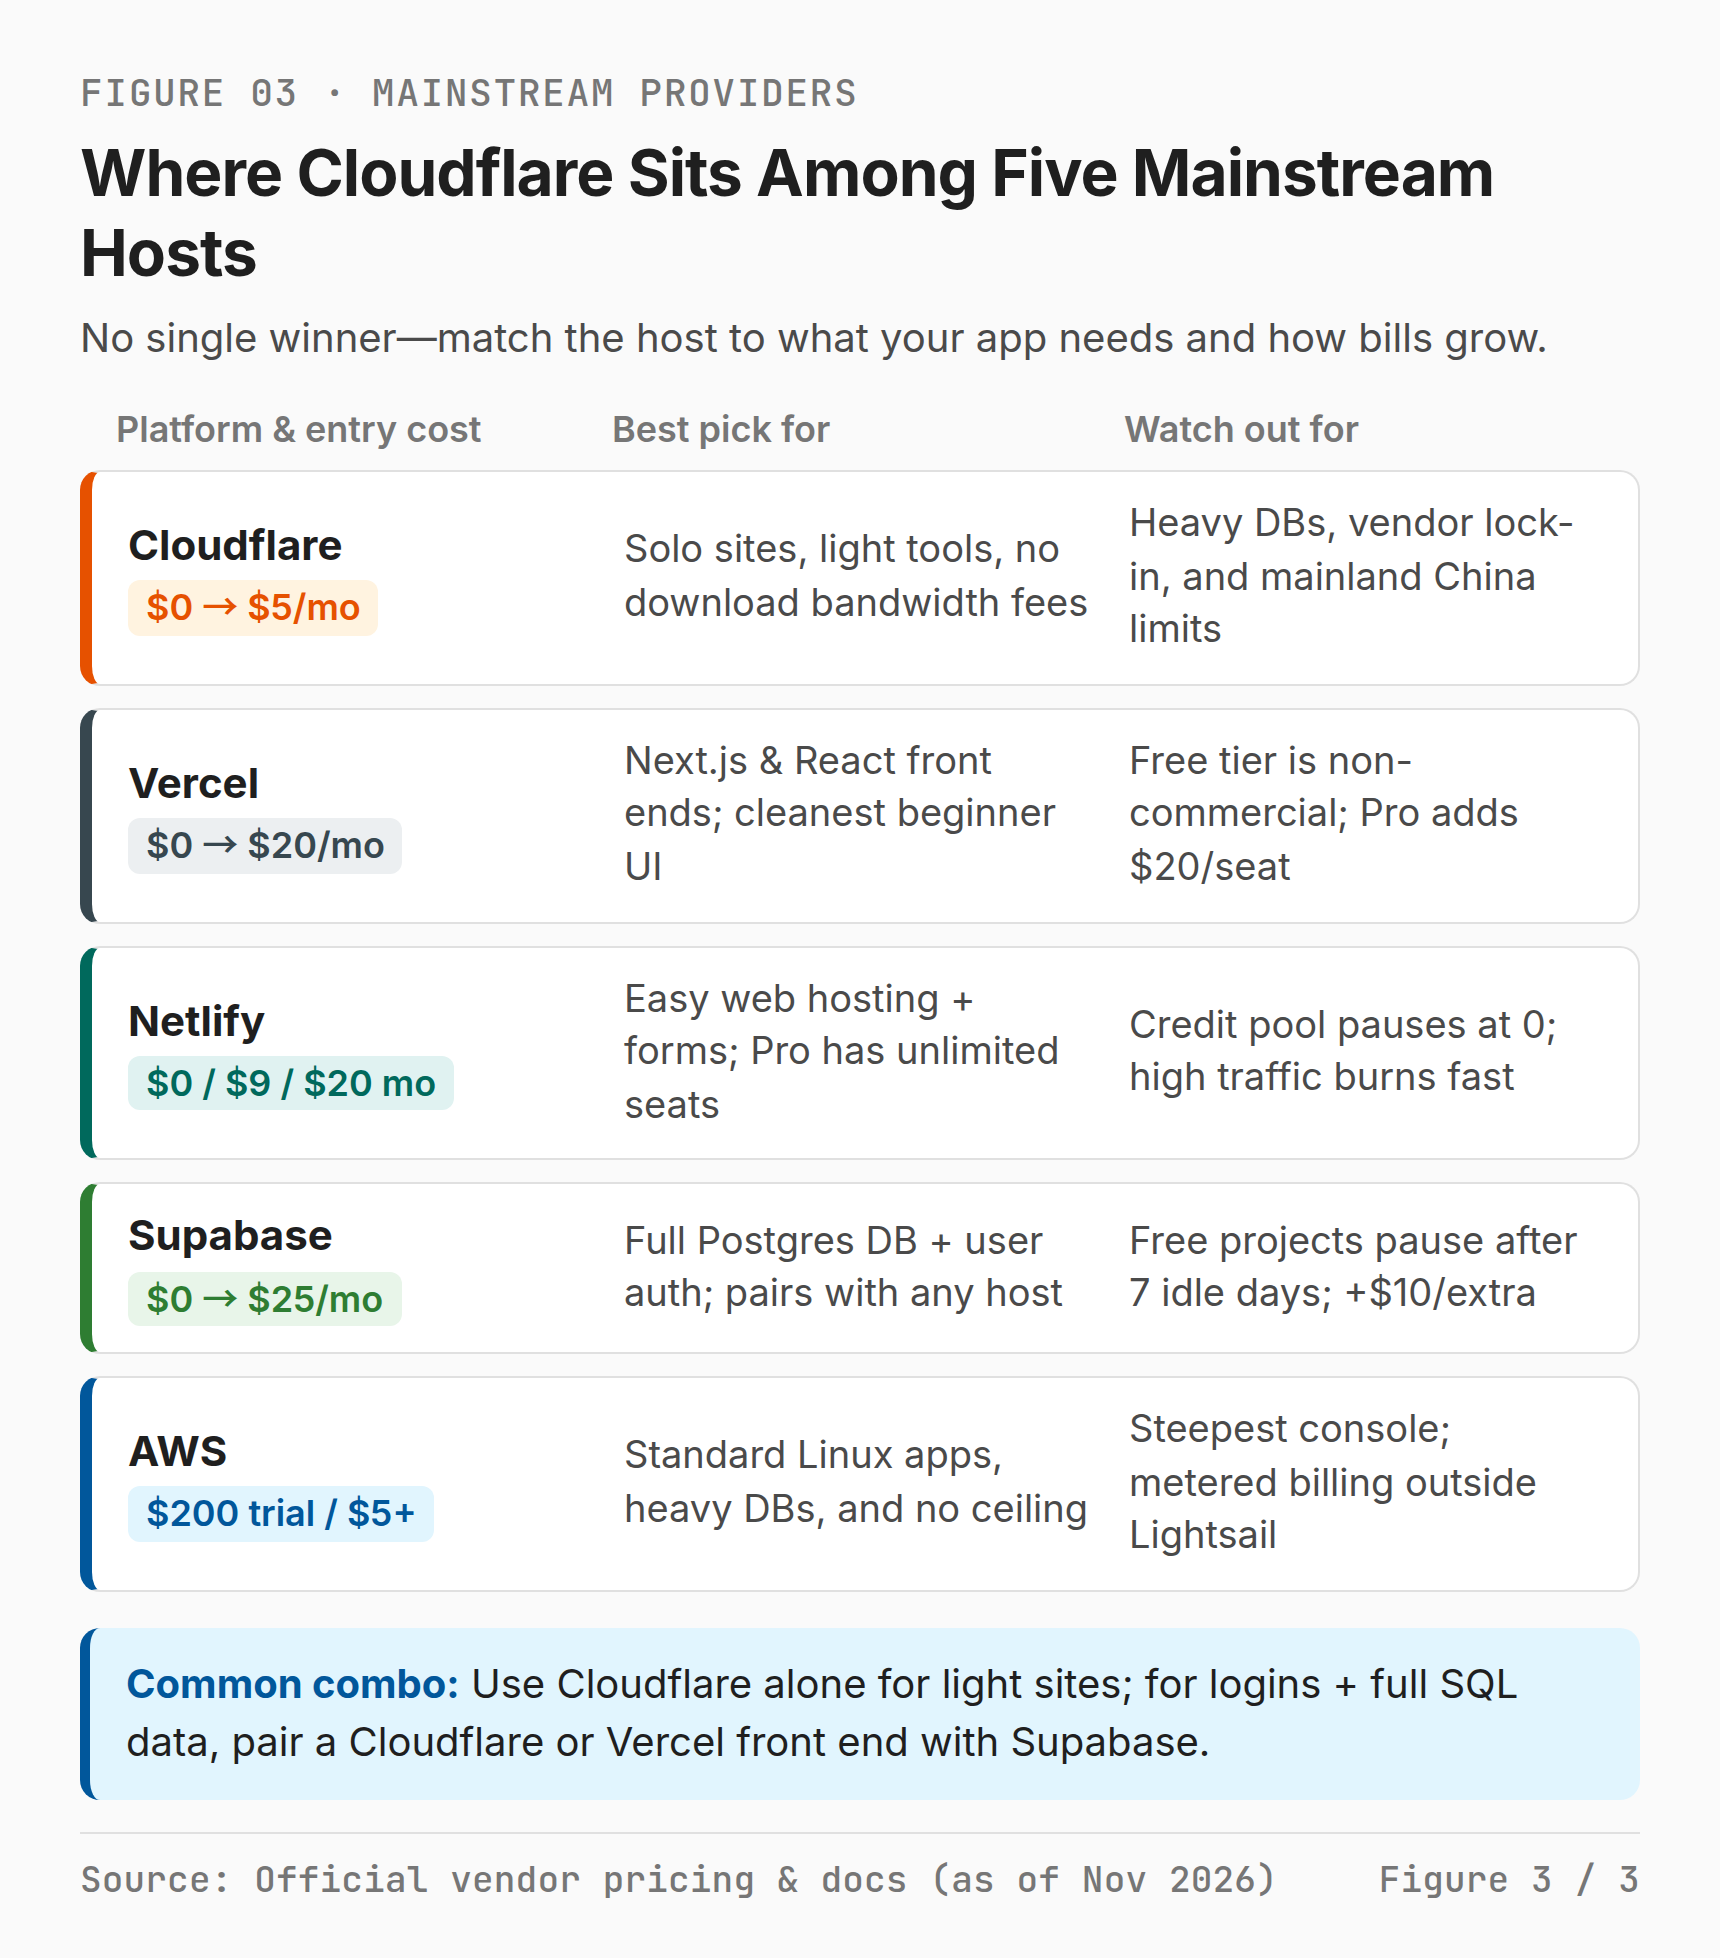
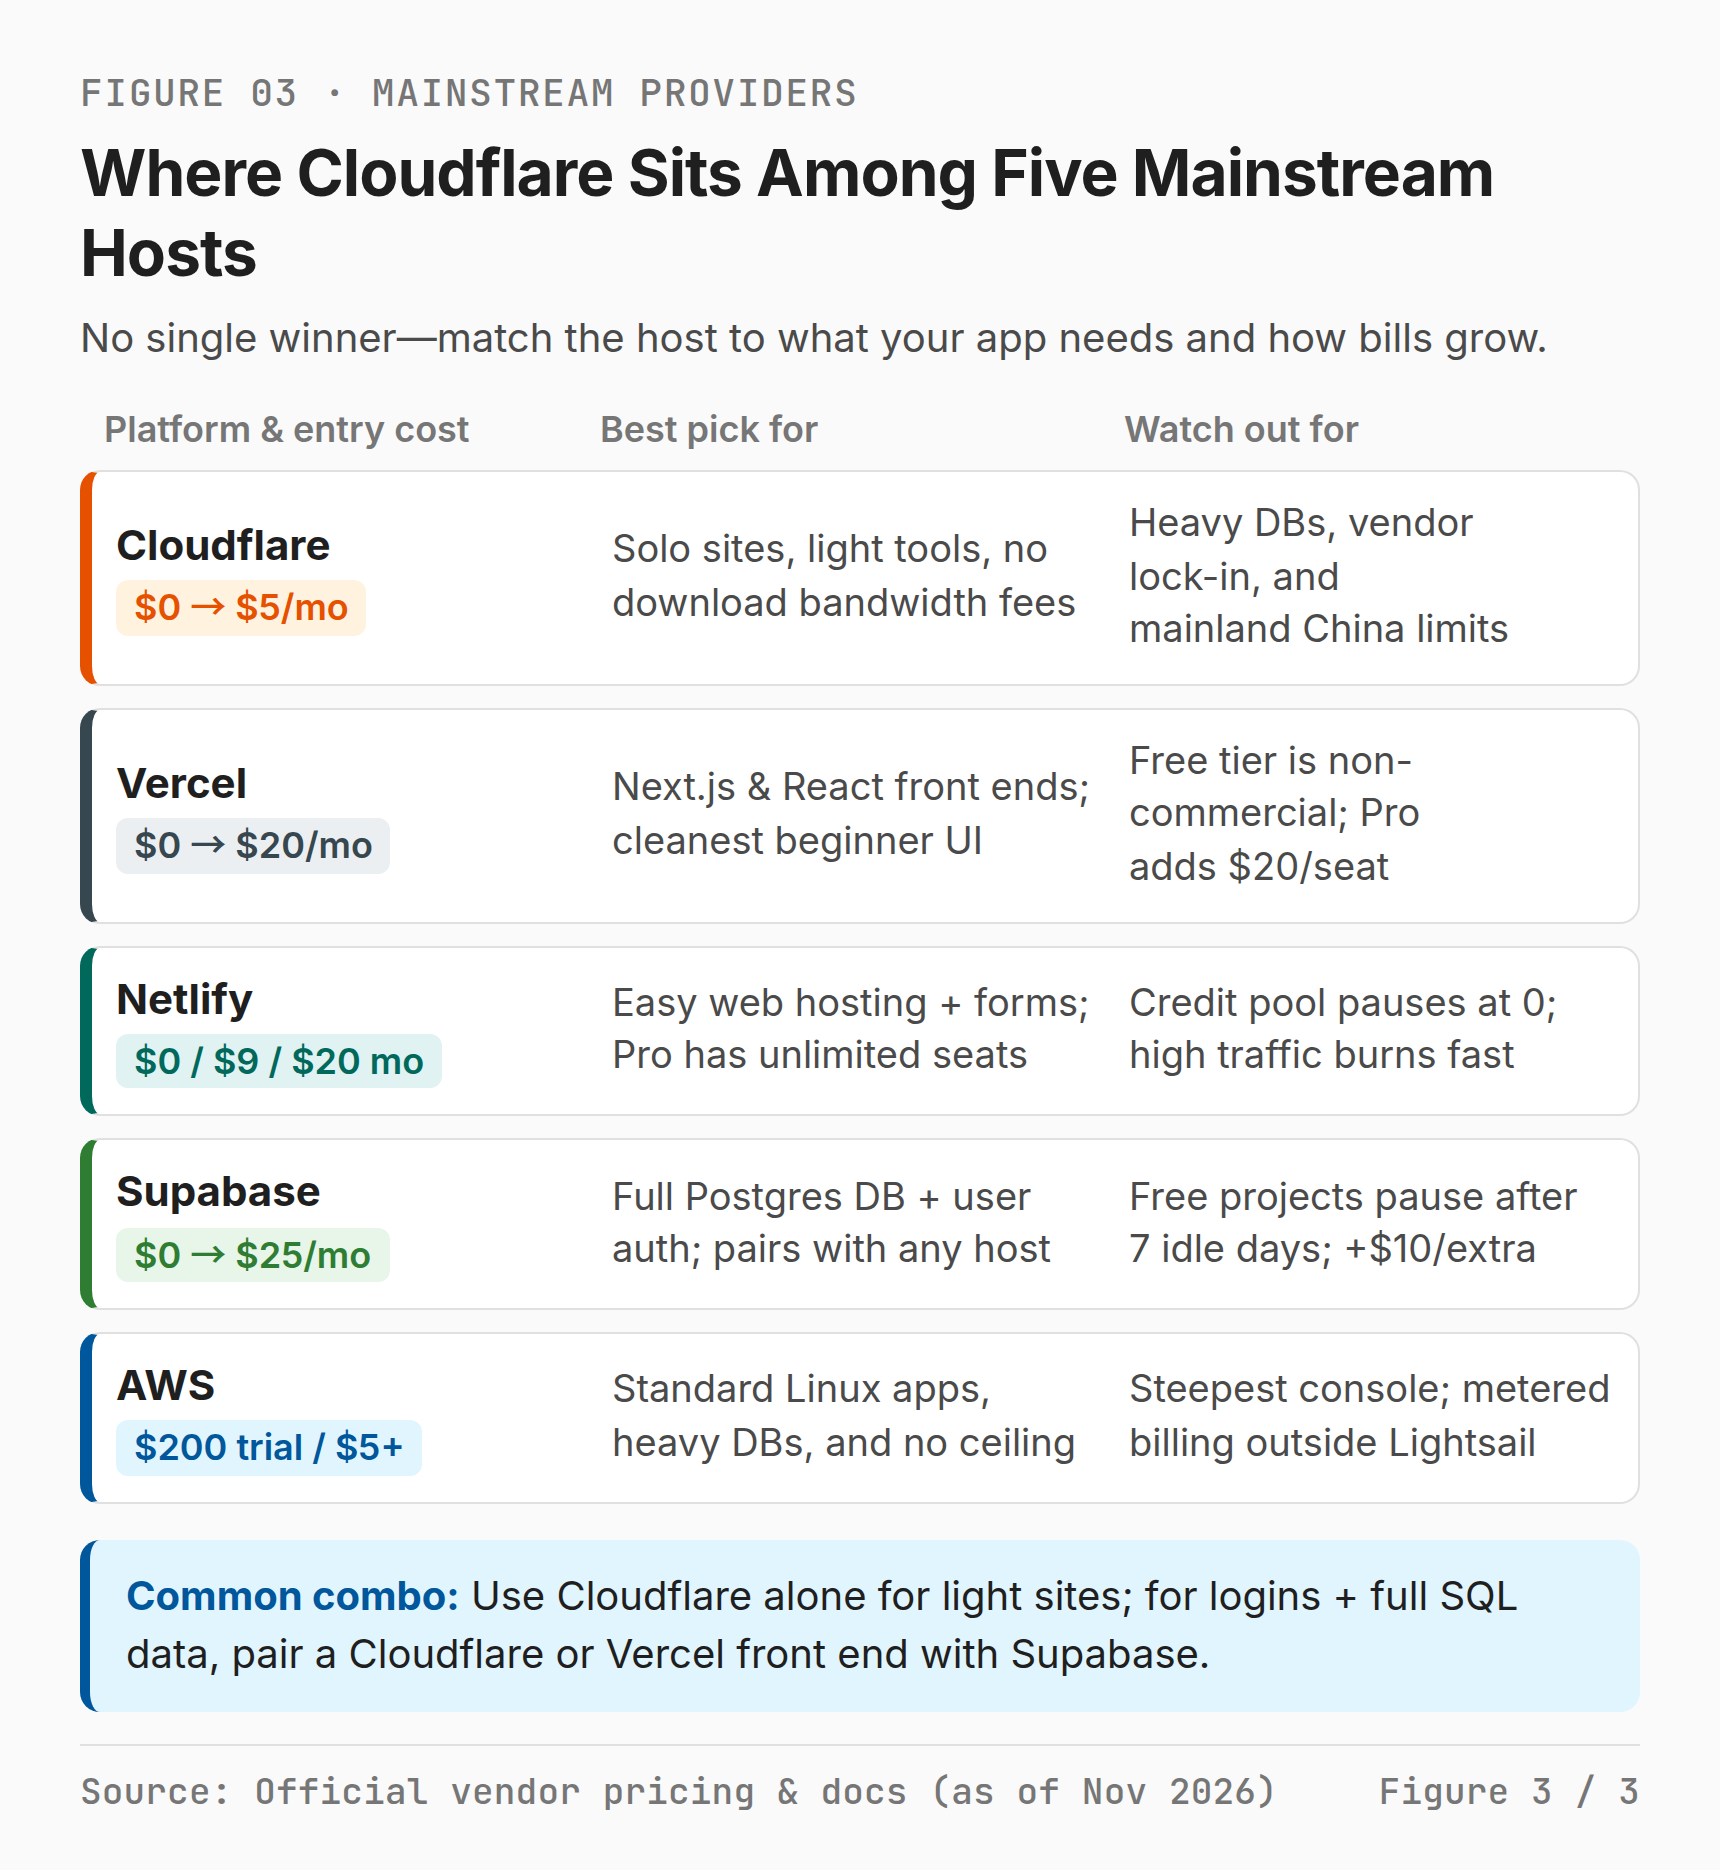
Balance provider comparison figure layouts

diff --git a/drafts/2026-11-28-ai-and-cloudflare-again/figures/figure-3-providers-comparison.en.html b/drafts/2026-11-28-ai-and-cloudflare-again/figures/figure-3-providers-comparison.en.html
@@ -3,13 +3,13 @@
 :root{--canvas:#fafafa;--ink:#1f1f1f;--soft:#4a4a4a;--faint:#767676;--line:#e0e0e0;--info:#01579b;--infof:#e1f5fe;--warn:#e65100;--warnf:#fff3e0;--ok:#2e7d32;--okf:#e8f5e9;--teal:#00695c;--tealf:#e0f2f1;--slate:#37474f;--slatef:#eceff1}
 *{box-sizing:border-box}html,body{margin:0;padding:0;background:#fff}body{font-family:Inter,'Noto Sans SC','WenQuanYi Zen Hei',sans-serif;color:var(--ink);-webkit-font-smoothing:antialiased}.canvas{width:860px;padding:34px 40px 28px;background:var(--canvas)}.figno{font-family:'JetBrains Mono',monospace;font-size:19px;letter-spacing:.04em;color:var(--faint)}
 h1{font-size:32px;line-height:1.25;margin:8px 0 0;font-weight:700;letter-spacing:-.015em}.subtitle{font-size:20px;line-height:1.45;color:var(--soft);margin-top:8px}
-.colhead{display:grid;grid-template-columns:232px 1fr 1fr;gap:16px;padding:0 18px;margin-top:20px;font-size:18px;font-weight:600;color:var(--faint)}
+.colhead{display:grid;grid-template-columns:232px 1fr 1fr;gap:16px;padding:0 12px;margin-top:20px;font-size:18px;font-weight:600;color:var(--faint)}
 .rows{display:flex;flex-direction:column;gap:11px;margin-top:10px}
-.row{display:grid;grid-template-columns:232px 1fr 1fr;gap:16px;align-items:center;border:1.5px solid var(--line);border-left:6px solid var(--line);border-radius:10px;background:#fff;padding:13px 18px}
+.row{display:grid;grid-template-columns:232px 1fr 1fr;gap:16px;align-items:center;border:1.5px solid var(--line);border-left:6px solid var(--line);border-radius:10px;background:#fff;padding:13px 12px}
 .cf{border-left-color:var(--warn)}.vc{border-left-color:var(--slate)}.nl{border-left-color:var(--teal)}.sb{border-left-color:var(--ok)}.aws{border-left-color:var(--info)}
 .prov{display:flex;flex-direction:column;align-items:flex-start;gap:5px}.prov-name{font-size:21px;font-weight:700;line-height:1.2;color:var(--ink)}.prov-price{font-size:18px;font-weight:600;line-height:1.2;padding:3px 9px;border-radius:6px;white-space:nowrap}
 .cf .prov-price{background:var(--warnf);color:var(--warn)}.vc .prov-price{background:var(--slatef);color:var(--slate)}.nl .prov-price{background:var(--tealf);color:var(--teal)}.sb .prov-price{background:var(--okf);color:var(--ok)}.aws .prov-price{background:var(--infof);color:var(--info)}
-.cell{font-size:19px;line-height:1.4;color:var(--soft)}
+.cell{font-size:19px;line-height:1.4;color:var(--soft);text-wrap:balance}
 .take{margin-top:18px;padding:14px 18px;border-radius:10px;background:var(--infof);border-left:5px solid var(--info);font-size:20px;line-height:1.45}.take b{color:var(--info)}
 .footer{margin-top:16px;border-top:1px solid var(--line);padding-top:11px;display:flex;justify-content:space-between;gap:12px;font-family:'JetBrains Mono',monospace;font-size:18px;color:var(--faint);letter-spacing:.005em}
 </style></head><body><main class="canvas"><div class="figno">FIGURE 03 · MAINSTREAM PROVIDERS</div><h1>Where Cloudflare Sits Among Five Mainstream Hosts</h1><div class="subtitle">No single winner—match the host to what your app needs and how bills grow.</div><div class="colhead"><span>Platform &amp; entry cost</span><span>Best pick for</span><span>Watch out for</span></div><section class="rows"><article class="row cf"><div class="prov"><span class="prov-name">Cloudflare</span><span class="prov-price">$0 → $5/mo</span></div><div class="cell">Solo sites, light tools, no download bandwidth fees</div><div class="cell">Heavy DBs, vendor lock-in, and mainland China limits</div></article><article class="row vc"><div class="prov"><span class="prov-name">Vercel</span><span class="prov-price">$0 → $20/mo</span></div><div class="cell">Next.js &amp; React front ends; cleanest beginner UI</div><div class="cell">Free tier is non-commercial; Pro adds $20/seat</div></article><article class="row nl"><div class="prov"><span class="prov-name">Netlify</span><span class="prov-price">$0 / $9 / $20 mo</span></div><div class="cell">Easy web hosting + forms; Pro has unlimited seats</div><div class="cell">Credit pool pauses at 0; high traffic burns fast</div></article><article class="row sb"><div class="prov"><span class="prov-name">Supabase</span><span class="prov-price">$0 → $25/mo</span></div><div class="cell">Full Postgres DB + user auth; pairs with any host</div><div class="cell">Free projects pause after 7 idle days; +$10/extra</div></article><article class="row aws"><div class="prov"><span class="prov-name">AWS</span><span class="prov-price">$200 trial / $5+</span></div><div class="cell">Standard Linux apps, heavy DBs, and no ceiling</div><div class="cell">Steepest console; metered billing outside Lightsail</div></article></section><div class="take"><b>Common combo:</b> Use Cloudflare alone for light sites; for logins + full SQL data, pair a Cloudflare or Vercel front end with Supabase.</div><footer class="footer"><span>Source: Official vendor pricing &amp; docs (as of Nov 2026)</span><span>Figure 3 / 3</span></footer></main></body></html>
